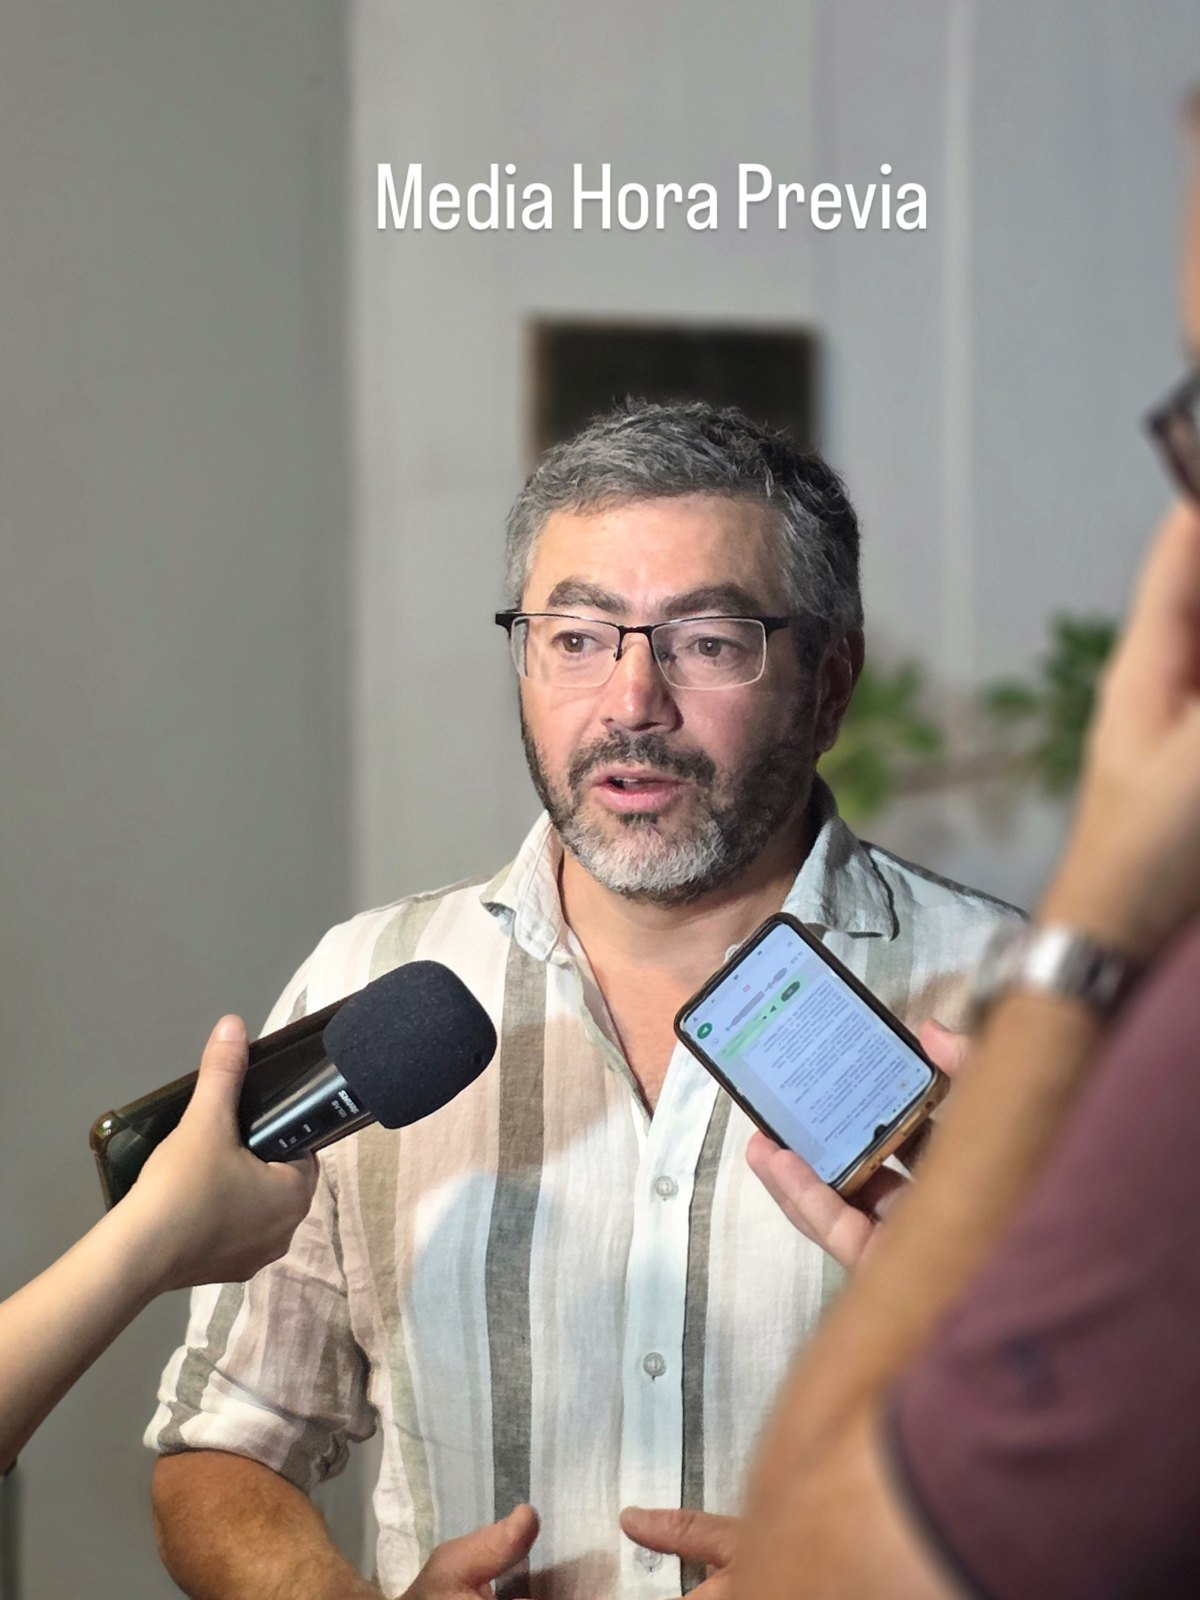
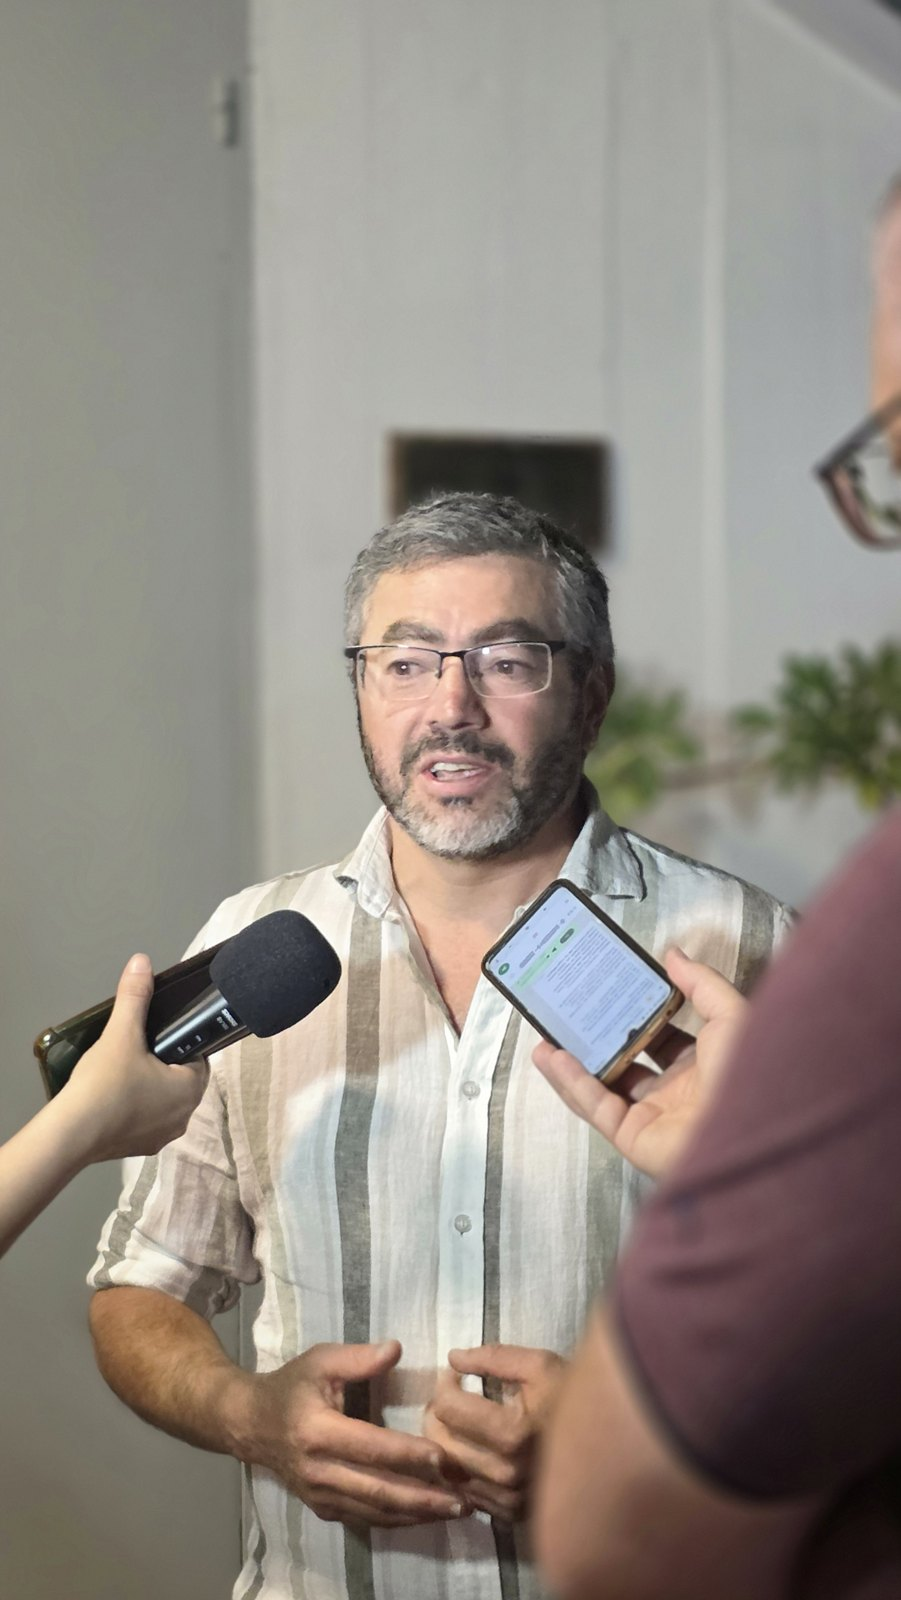
Banco de fotos: segunda tanda (equipo, quesos, tambo, prensa, vecinos)
Claude-Session: https://claude.ai/code/session_01JGYzg6tBDLj1xoA6j756y9

diff --git a/redes/fotos/README.md b/redes/fotos/README.md
@@ -12,11 +12,19 @@ Con foto el tema es siempre azul marino. Verificar siempre con Read que el texto
 | junta-perfil.jpg | Primer plano de perfil en la Junta | reflexión, seriedad | focus top |
 | junta-con-fede-degroote.jpg | Selfie con Federico De Groote en la Junta (escudo de San José) | Lista 41, equipo, San José | focus center |
 | junta-dialogo-colegas.jpg | Conversando con colegas en la Junta | política con respeto, acuerdos, diálogo | focus center |
-| prensa-entrevista.jpg | Entrevista con prensa (trae texto "Media Hora Previa" arriba) | declaraciones, temas de actualidad | focus bottom |
+| prensa-entrevista.jpg | Respondiendo a la prensa, micrófonos | declaraciones, temas de actualidad, críticas con propuesta | focus top |
+| prensa-entrevista-2.jpg | Otra toma con prensa, fondo oscuro | declaraciones, actualidad | focus top |
 | celeste-mundial.jpg | Con la celeste frente a un estadio | orgullo uruguayo, optimismo, futuro | focus top |
 | rio-verano.jpg | Selfie en el río, verano | descanso, turismo interior, ambiente | focus center |
 | pulgar-arriba.jpg | Pulgar arriba, sonriendo, al aire libre | buenas noticias, logros | focus top |
 | retrato-saco.jpg | Retrato de cuerpo entero, saco azul | institucional, identidad | focus top |
+| junta-microfono-2.jpg | Otra toma hablando al micrófono en la Junta | trabajo legislativo | focus top |
+| equipo-mate-campo.jpg | Grupo de jóvenes con mate en el campo | equipo, juventud, Lista 41, interior | pos top o focus center |
+| con-lacalle-pou-y-fede.jpg | Selfie con Luis Lacalle Pou y Federico De Groote | identidad blanca, Lista 41, partido (usar poco y en temas de partido) | focus top |
+| pulgar-arriba-polo.jpg | Pulgar arriba, polo azul, al aire libre | buenas noticias, logros | focus top |
+| tambo-visita.jpg | Visita a un tambo con productores (sin caras de Esteban en primer plano) | lechería, quesería, pequeños productores, agro | focus center |
+| quesos-artesanales.jpg | Manos acomodando hormas de queso (sin caras) | quesería artesanal, pequeños productores, exportación, valor agregado | pos top |
+| vecinos-evento.jpg | Sonriendo entre vecinos en un acto | cercanía, comunidad, San José, cultura | focus center |
 | retrato-auto-gorra.jpg | Selfie casual en el auto | cercanía (uso ocasional) | focus top |
 
 Reglas: no repetir la misma foto en menos de 10 días; fotos de familia/hijos solo si Esteban la manda para un post puntual (no se guardan en este repo público); en temas sensibles, preferir foto sin caras o placa sin foto.
